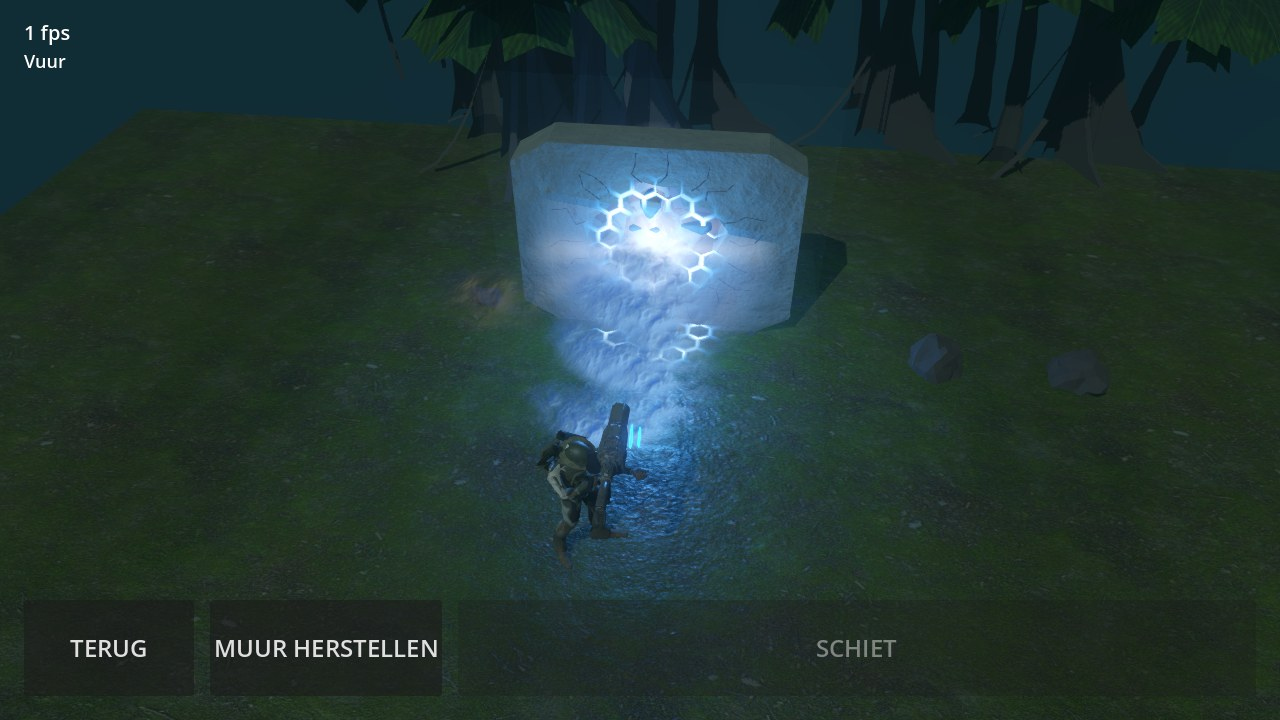
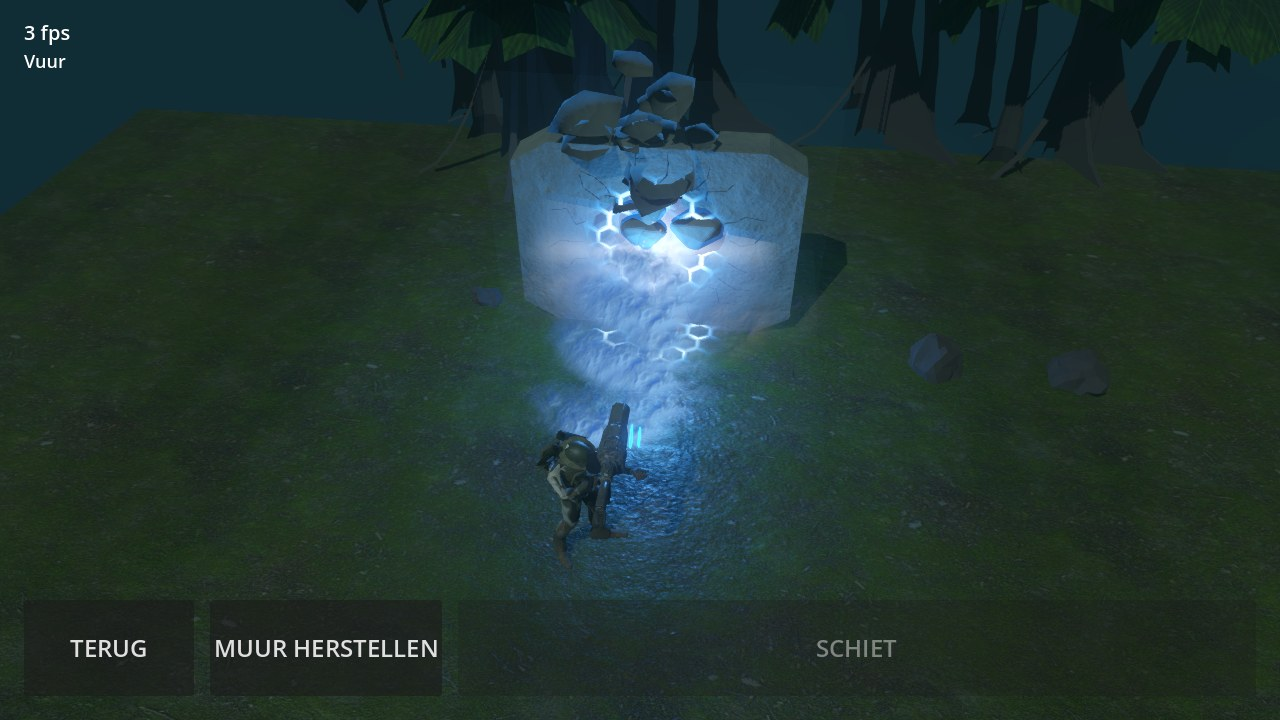
M-47: grotere, kantige betonbrokken die uit het gat vliegen en blijven liggen
16 procedurele brokken (icosaëder met willekeurige stralen, triplanar beton), 4 grote; de 42 clipstukken 1,45x groter.
Boogvlucht met tuimelen, landen aan de kant van de schutter. Geen physics-bodies.

Claude-Session: https://claude.ai/code/session_01WCF4ztsJfEWfTEiU2N86F5

diff --git a/docs/m47_vfx/README.md b/docs/m47_vfx/README.md
@@ -7,7 +7,7 @@ Keuzekaart Dennis (8 nov 2026): **1A 2B 3A 4B 5A 6A**.
 - **3A** Honingraat-schokgolf: `shaders/m47_honingraat.gdshader`, één vlak op de muur en één op de grond.
 - **4B** Rook/stof (v2: dichter, blauw aangelicht spoor dat achterblijft): 4x4 flipbook-atlassen `assets/m47/rook_sliert.png` en `rook_stof.png`, gemaakt door `bron/m47/maak_rook.py`.
   De Blender/Mantaflow-simulatie bleek te traag en gaf een statische bol; daarom procedurele wolken (ruis + zijlicht). Geen echte simulatie.
-- **5A** Breach-clip met 42 brokken (`assets/m47/muur_breuk.glb`), blijvend gat, botsing weg na de breuk, blauwe nagloed.
+- **5A** Breach-clip met 42 brokken (grotere stukken) plus 16 extra procedurele kantige betonbrokken die in een boog uit het gat vliegen en blijven liggen; blijvend gat, botsing weg na de breuk, blauwe nagloed.
 - **6A** Proefveld: hoofdmenu > **M-47** (`scenes/m47_proefveld.tscn`): SCHIET, MUUR HERSTELLEN, TERUG, fps-teller.
 
 Opnames (software-render, Vulkan/lavapipe, 1280x720): `1_laden_flits.jpg` .. `5_doorbraak.jpg`, `doel_nu_nieuw.jpg` (doelbeeld, Blender 5.2, nieuw).
